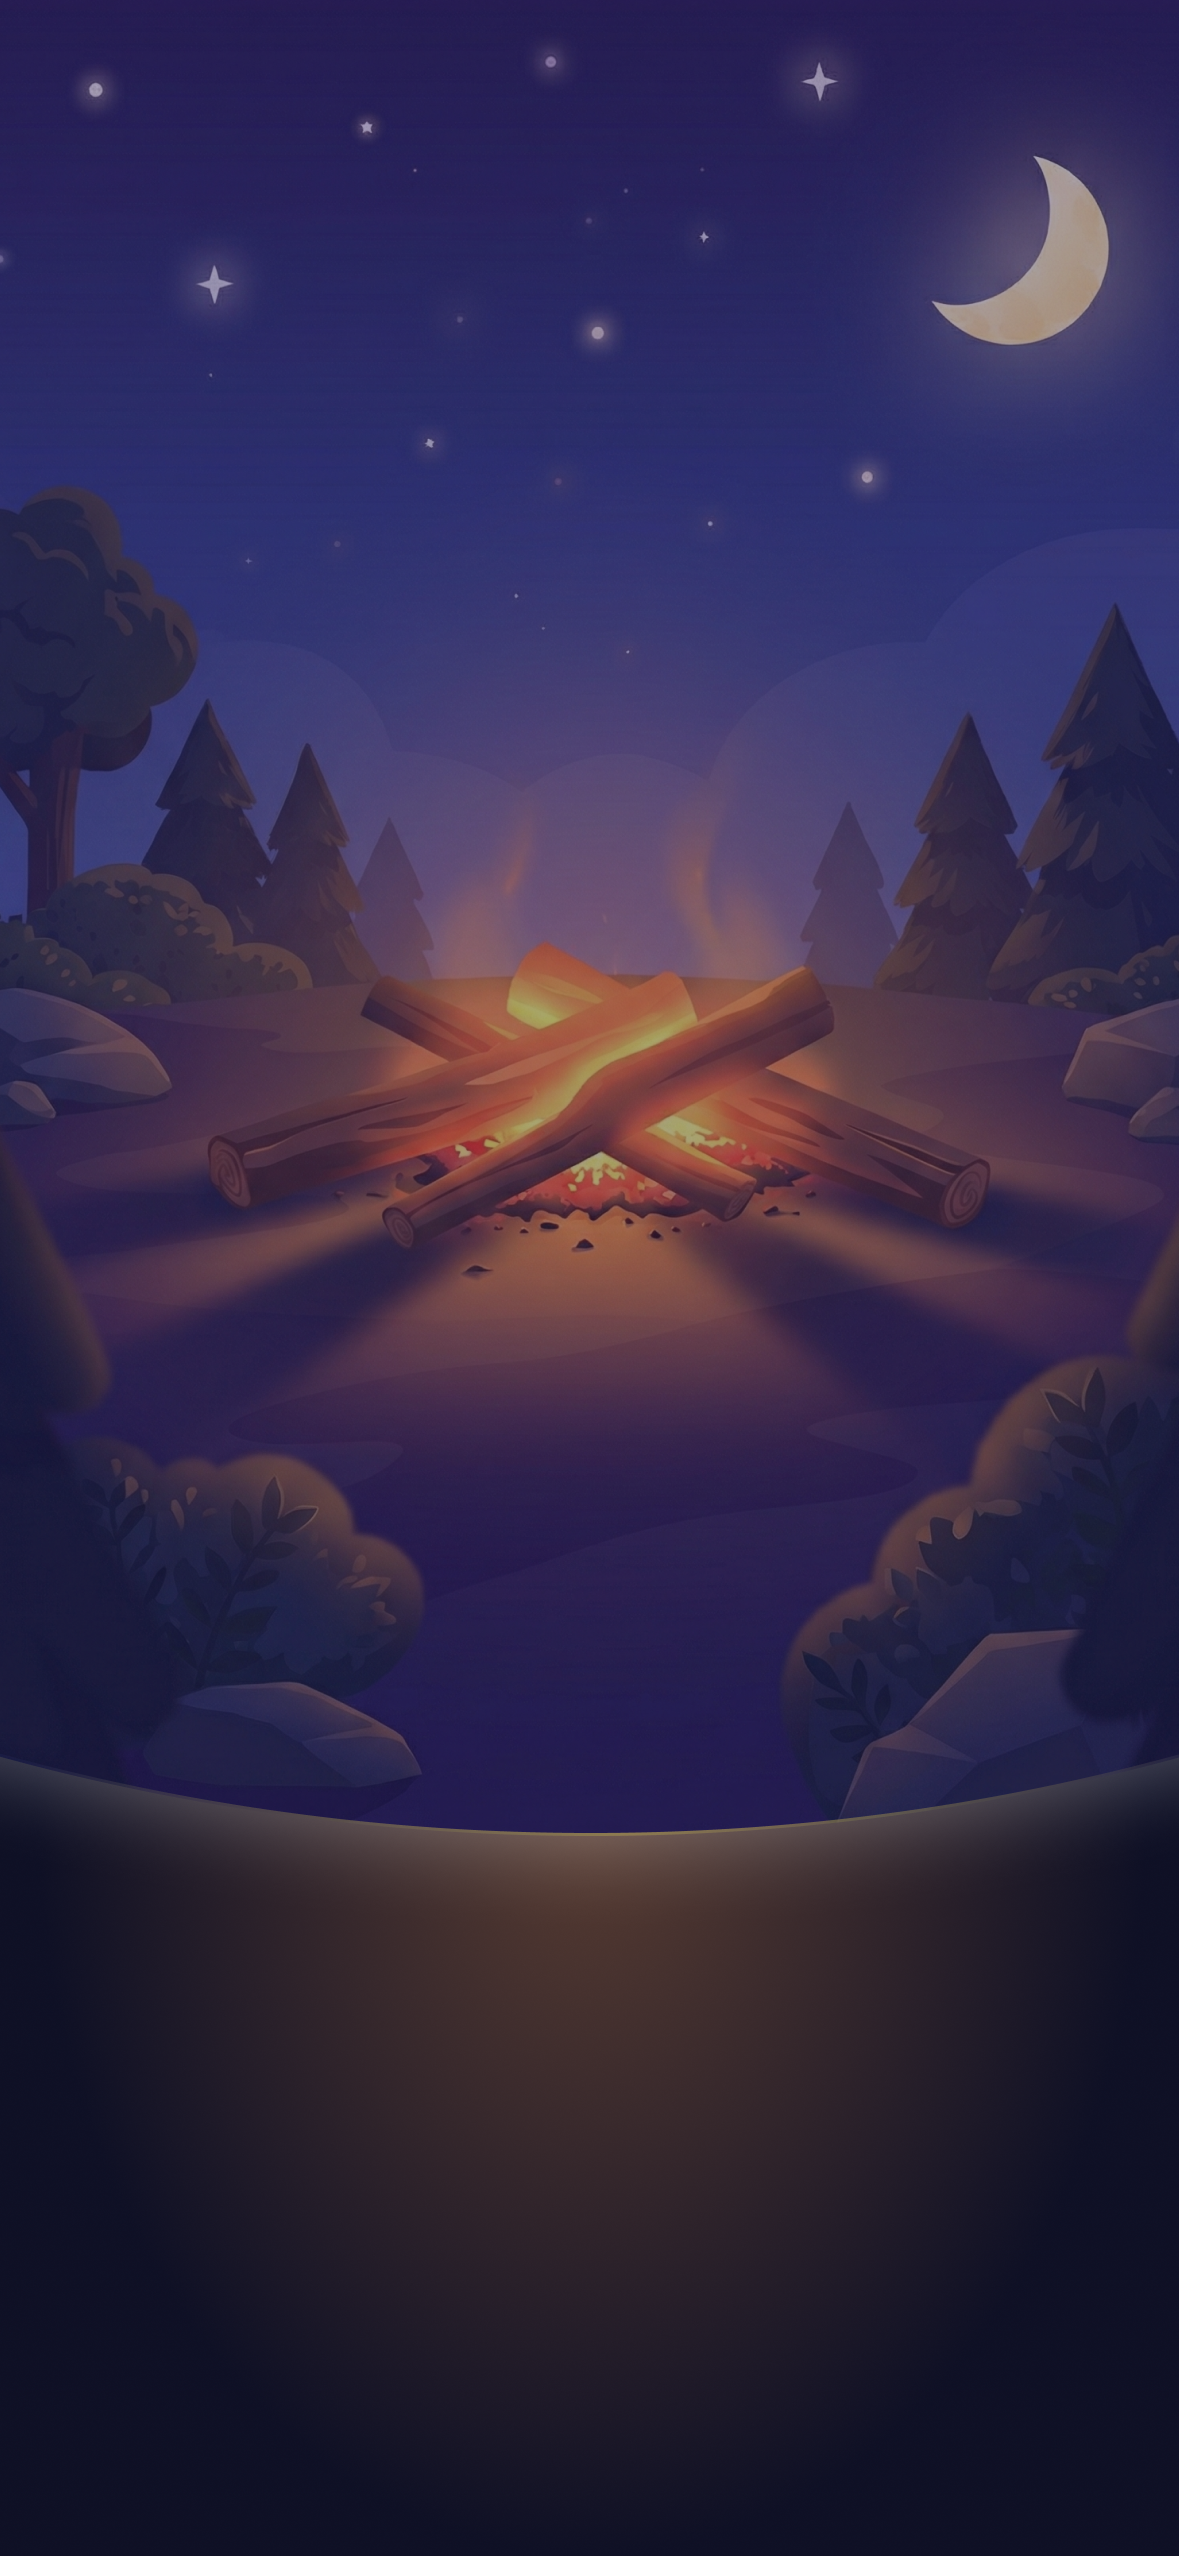
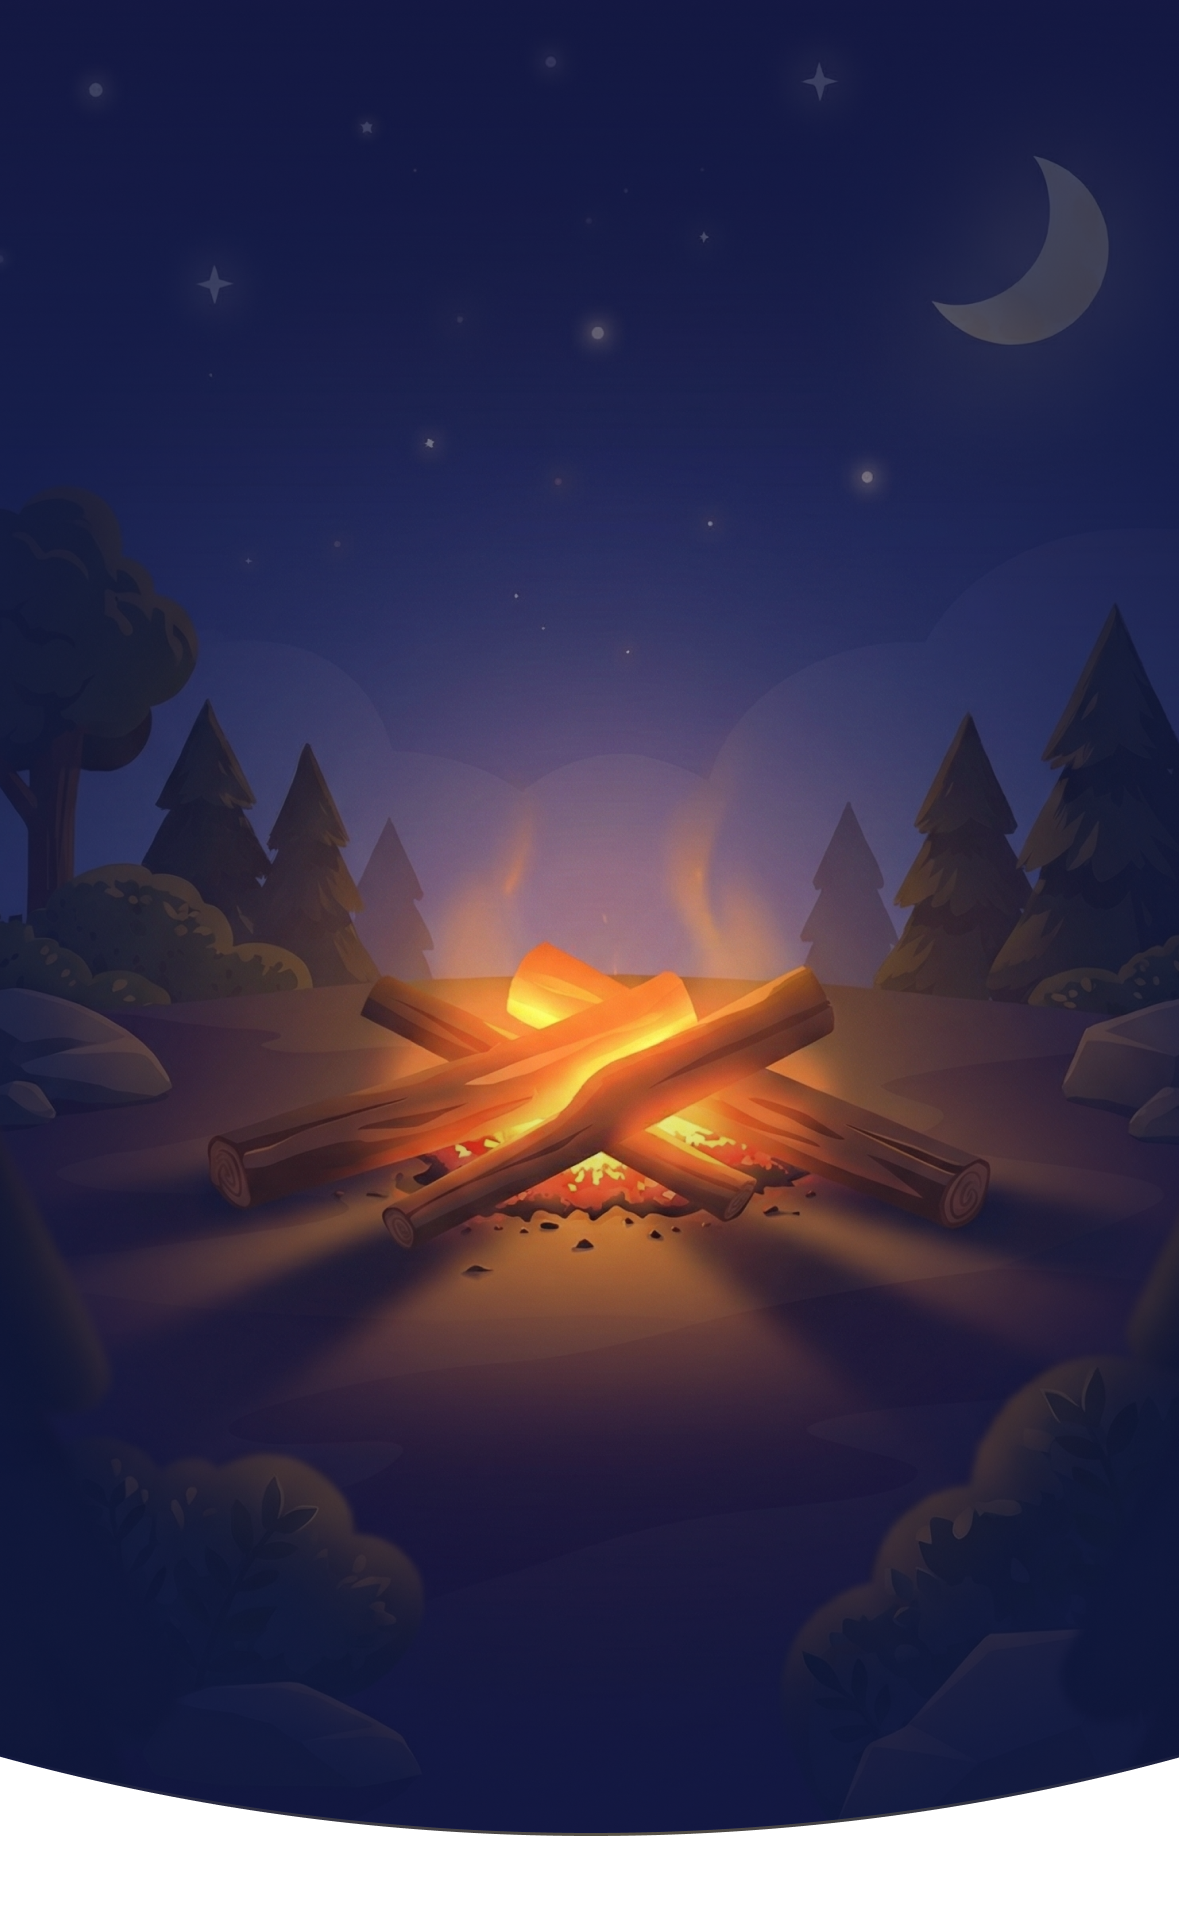
fix(campfire-companion): 更新篝火陪伴模式背景配置
- 调整背景图片高度和火焰底部位置，优化响应式表现
- 修改背景填充色以匹配图片底部边缘
- 更新 JSDoc 文档，详细说明实现原理和样式调整

此更新旨在提升篝火陪伴模式的视觉效果和用户体验。

diff --git a/src/pages/DevTestPage.tsx b/src/pages/DevTestPage.tsx
@@ -594,29 +594,24 @@ const CAMPFIRE_CONFIG = {
   /** 背景图片宽度（从 companion-bg.png 元数据获取） */
   bgWidth: 1179,
   /** 背景图片高度（从 companion-bg.png 元数据获取） */
-  bgHeight: 2556,
+  bgHeight: 1926,
   /** 火焰底部在图片中的垂直位置，0-1（从设计稿测量：篝火柴堆顶部） */
-  fireBottomY: 0.48,
+  fireBottomY: 0.64
+  ,
   /** 火焰宽度占图片宽度的比例，0-1（视觉调优得出） */
   fireWidthRatio: 0.5,
-  /** 背景填充色（与图片边缘颜色一致，用于填充裁剪区域） */
-  bgColor: '#1D204A',
+  /** 背景填充色（与图片底部边缘颜色一致，用于填充超出区域） */
+  bgColor: '#1D1B3D',
 } as const;
-
-// 派生值（模块加载时计算一次）
-const COMPANION_BG_ASPECT_RATIO = CAMPFIRE_CONFIG.bgWidth / CAMPFIRE_CONFIG.bgHeight;
-const FIRE_HEIGHT_RATIO = CAMPFIRE_CONFIG.fireWidthRatio * COMPANION_BG_ASPECT_RATIO;
-const FIRE_CENTER_Y_PERCENT = CAMPFIRE_CONFIG.fireBottomY - FIRE_HEIGHT_RATIO / 2;
 
 /**
  * 篝火陪伴模式测试组件
  *
  * 实现原理：
- * 1. 使用 CSS max() 模拟 background-size: cover 效果，保持图片宽高比
- * 2. 以火焰中心点为锚点对齐，确保火焰在任何屏幕比例下都保持可见
- * 3. 火焰使用百分比定位，随背景同步缩放
- *
- * 浏览器兼容性：CSS max() 需要 Safari 11.1+, Chrome 79+, Firefox 75+
+ * 1. 图片宽度铺满视窗（100vw），高度按比例自动计算
+ * 2. 图片顶部和两侧对齐视窗边缘
+ * 3. 火焰使用百分比定位，相对于图片容器，确保与背景同步缩放
+ * 4. 如果屏幕比图片高，底部用背景色填充
  */
 function CampfireCompanionTest({ onBack }: { onBack: () => void }) {
   const [isSpeaking, setIsSpeaking] = useState(false);
@@ -626,22 +621,13 @@ function CampfireCompanionTest({ onBack }: { onBack: () => void }) {
       className="fixed inset-0 w-full h-full overflow-hidden"
       style={{ backgroundColor: CAMPFIRE_CONFIG.bgColor }}
     >
-      {/* 内容容器 - 使用 CSS max() 模拟 cover 效果，以火焰中心为锚点对齐 */}
-      <div
-        className="absolute"
-        style={{
-          left: '50%',
-          top: `${FIRE_CENTER_Y_PERCENT * 100}%`,
-          transform: `translateX(-50%) translateY(-${FIRE_CENTER_Y_PERCENT * 100}%)`,
-          width: `max(100vw, calc(100vh * ${COMPANION_BG_ASPECT_RATIO}))`,
-          height: `max(100vh, calc(100vw / ${COMPANION_BG_ASPECT_RATIO}))`,
-        }}
-      >
-        {/* 背景图片 */}
+      {/* 图片容器 - 宽度 100%，高度按比例自动，顶部对齐 */}
+      <div className="relative w-full">
+        {/* 背景图片 - 宽度铺满，高度按比例 */}
         <img
           src="/companion-bg.png"
           alt=""
-          className="absolute inset-0 w-full h-full object-cover"
+          className="w-full h-auto block"
         />
 
         {/* 火焰动画 - 相对于图片容器定位，使用百分比确保同步缩放 */}
